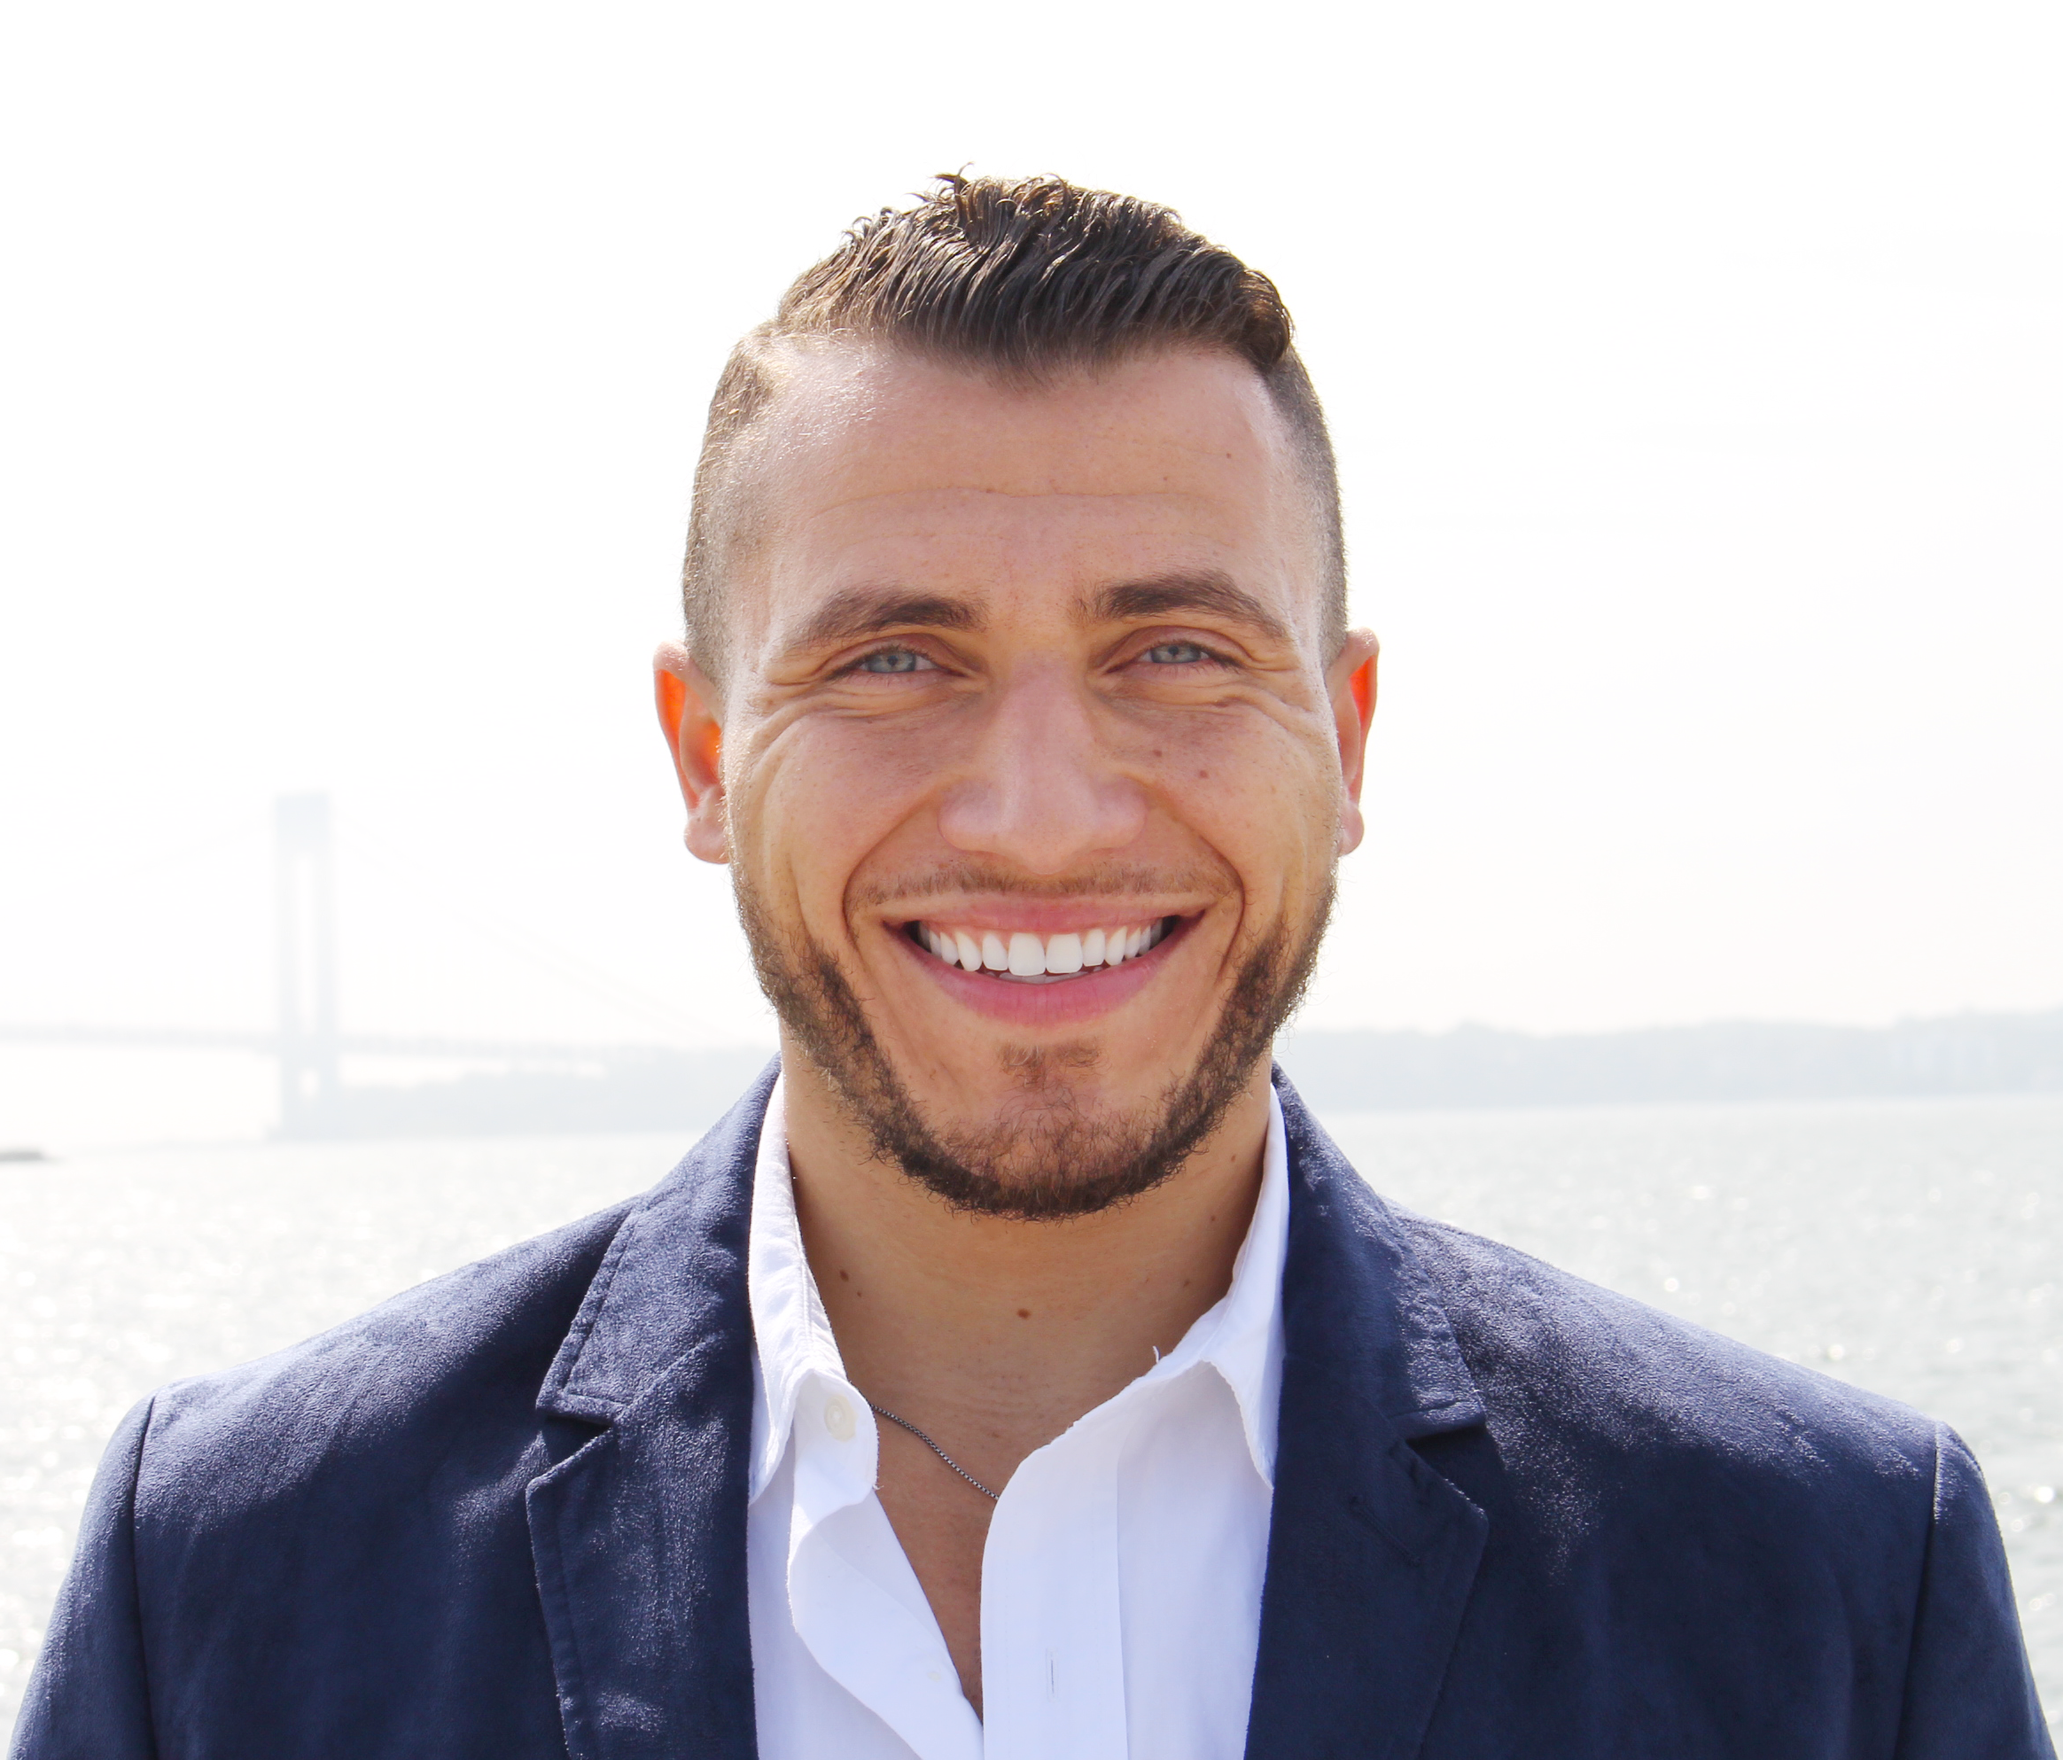
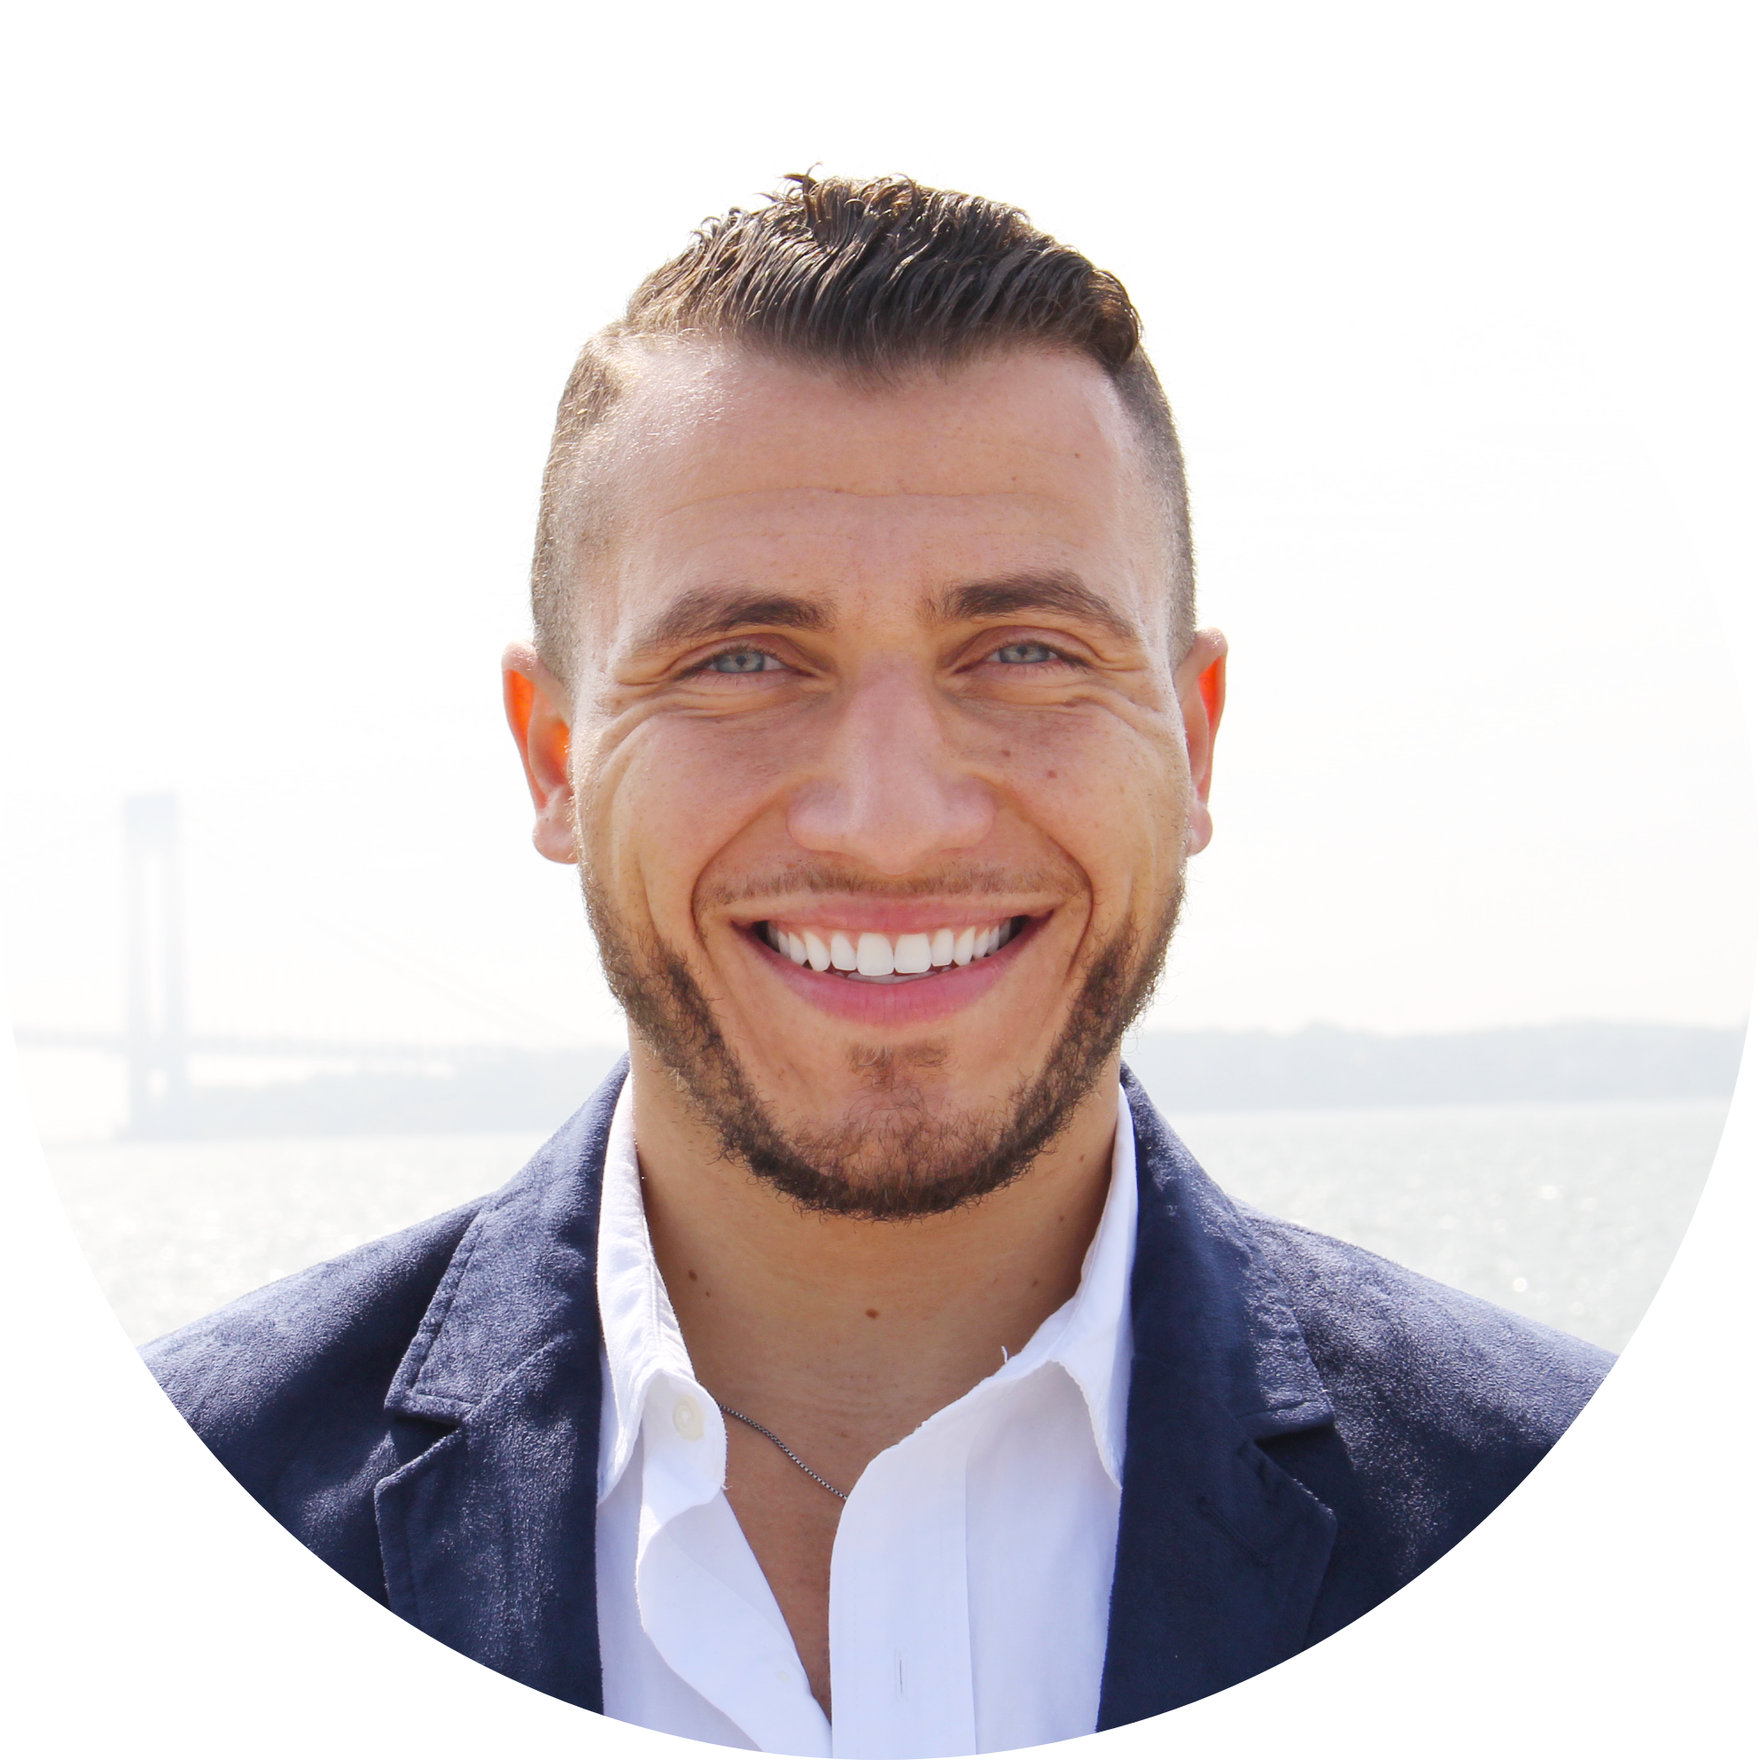
Adjusting team photos

diff --git a/src/elements/Team.jsx b/src/elements/Team.jsx
@@ -158,8 +158,8 @@ class Team extends Component{
                 {TeamContent.map((value , i ) => (
                     <div className={`${column}`} key={i}>
                         {/* style={{borderRadius: '30%'}} */}
-                        <div  className="team"> 
-                            <div  className="thumbnail">
+                        <div className="team"> 
+                            <div className="thumbnail">
                                 <img src={`/assets/images/team/team-${value.images}.png`} alt="Blog Images"/>
                             </div>
                             <div className="content">

diff --git a/build/assets/scss/elements/_team.scss b/build/assets/scss/elements/_team.scss
@@ -25,6 +25,7 @@
             content: "";
             z-index: 1;
             opacity: 0;
+            border-radius: 50%;
             @extend %transition;
 
         }
